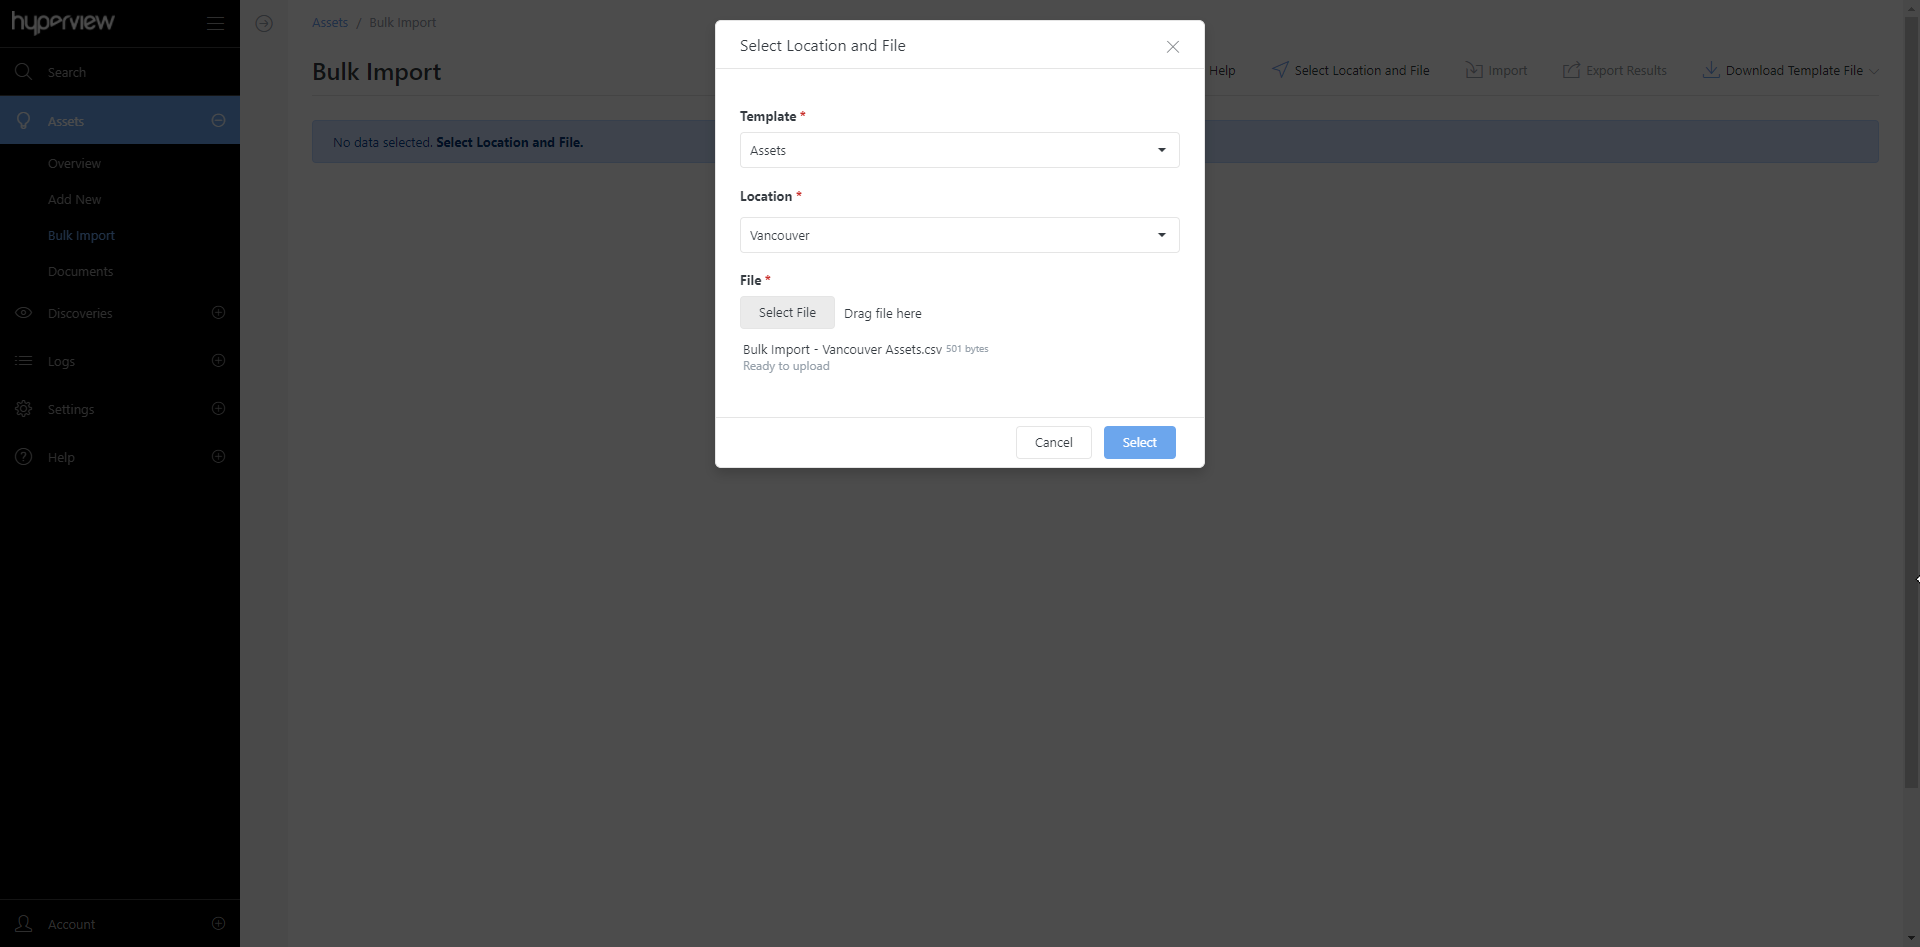
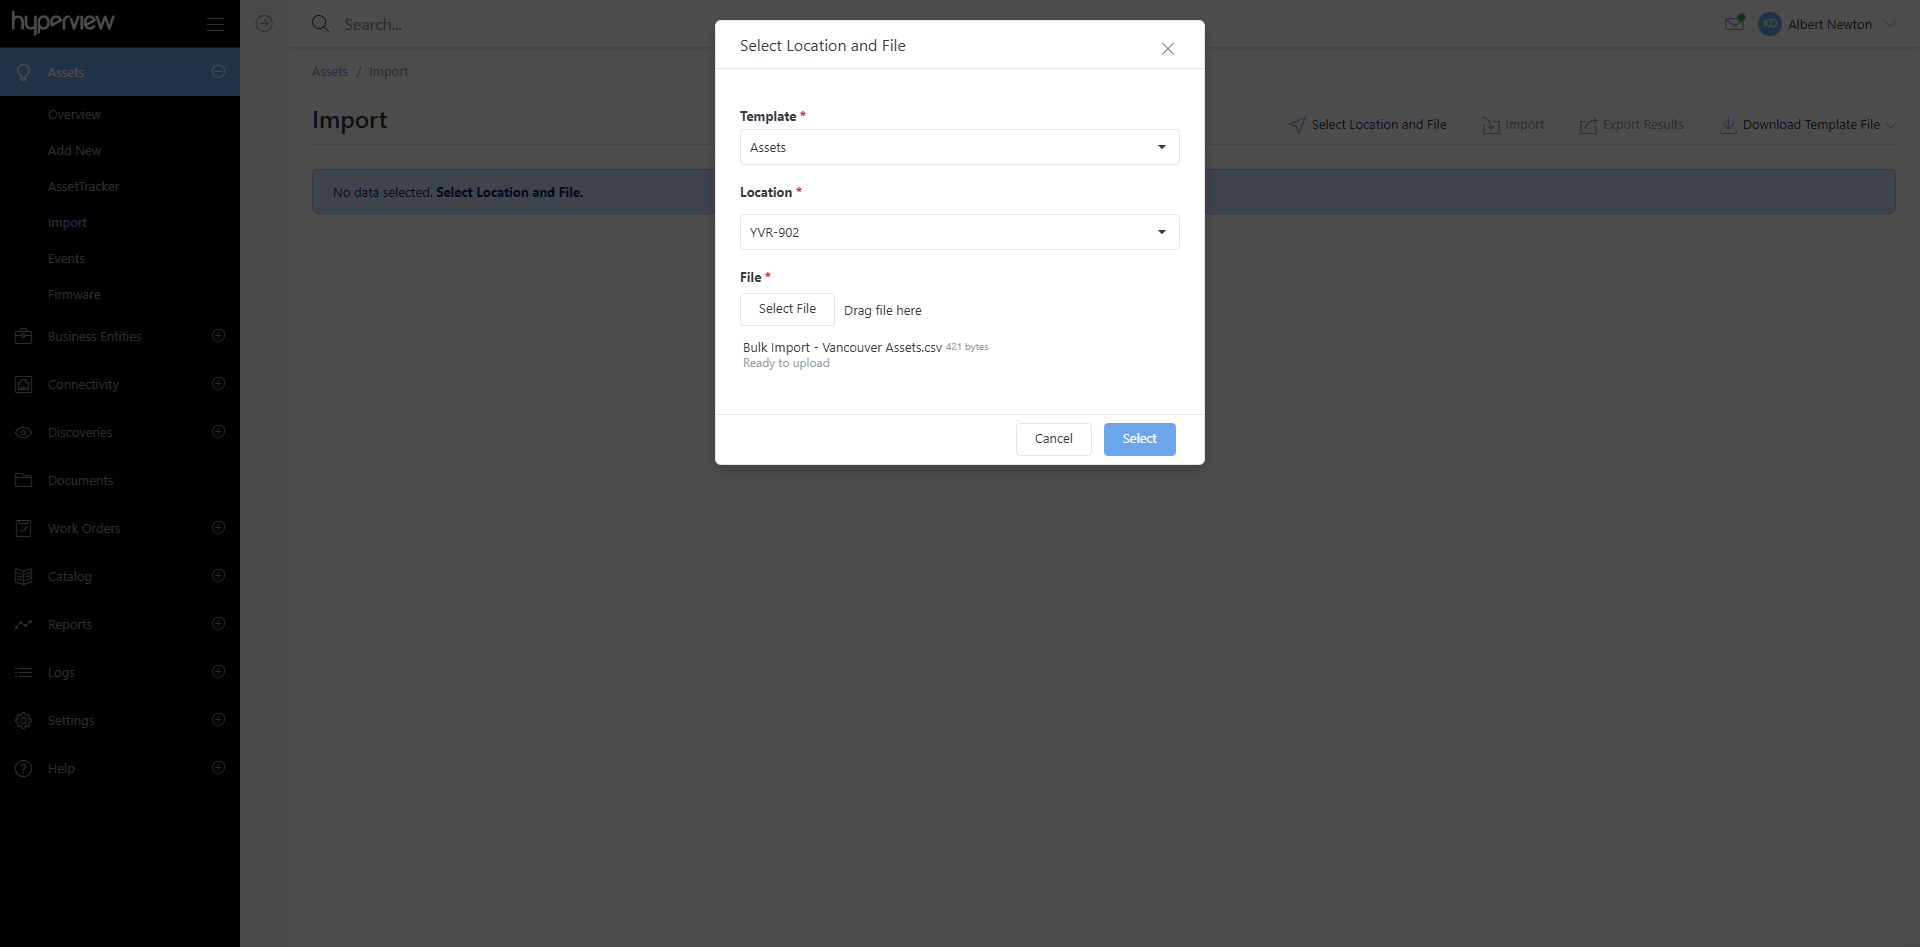
Updated Bulk Import to Import and updated screenshots

diff --git a/documentation/product/asset-management/topics/adding-assets.md b/documentation/product/asset-management/topics/adding-assets.md
@@ -23,7 +23,7 @@ You can bulk import assets using a CSV template that you can download from the a
 You cannot bulk import Location or Rack type assets.
 :::
 
-1. Go to *Assets → Bulk Import → Download Template File → Assets*. A CSV template for bulk importing assets will be downloaded to your browser’s default download directory. Rename and move the file to a different folder as needed.
+1. Go to *Assets → Import → Download Template File → Assets*. A CSV template for bulk importing assets will be downloaded to your browser’s default download directory. Rename and move the file to a different folder as needed.
 
 2. Update the file for assets that you wish to import. Available columns are:
 
